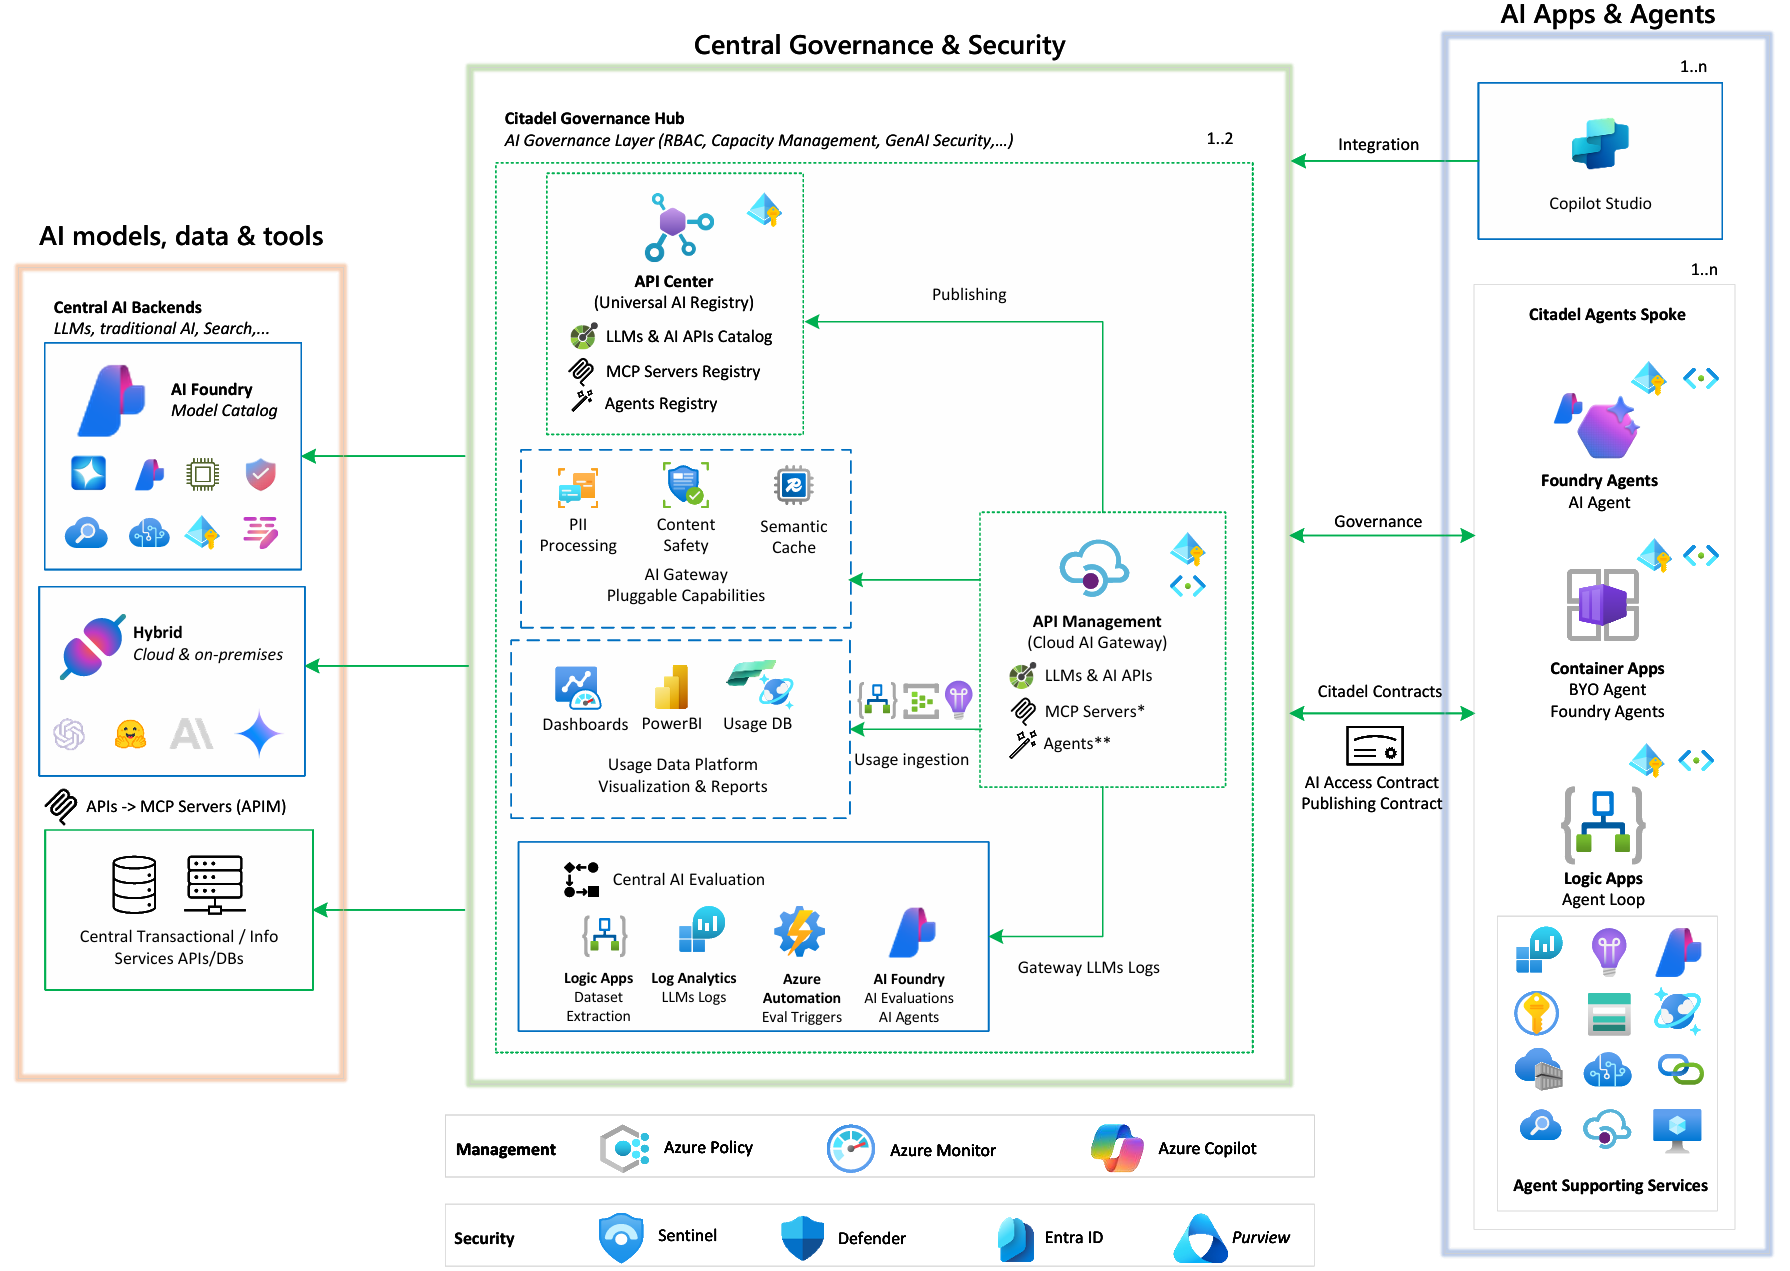
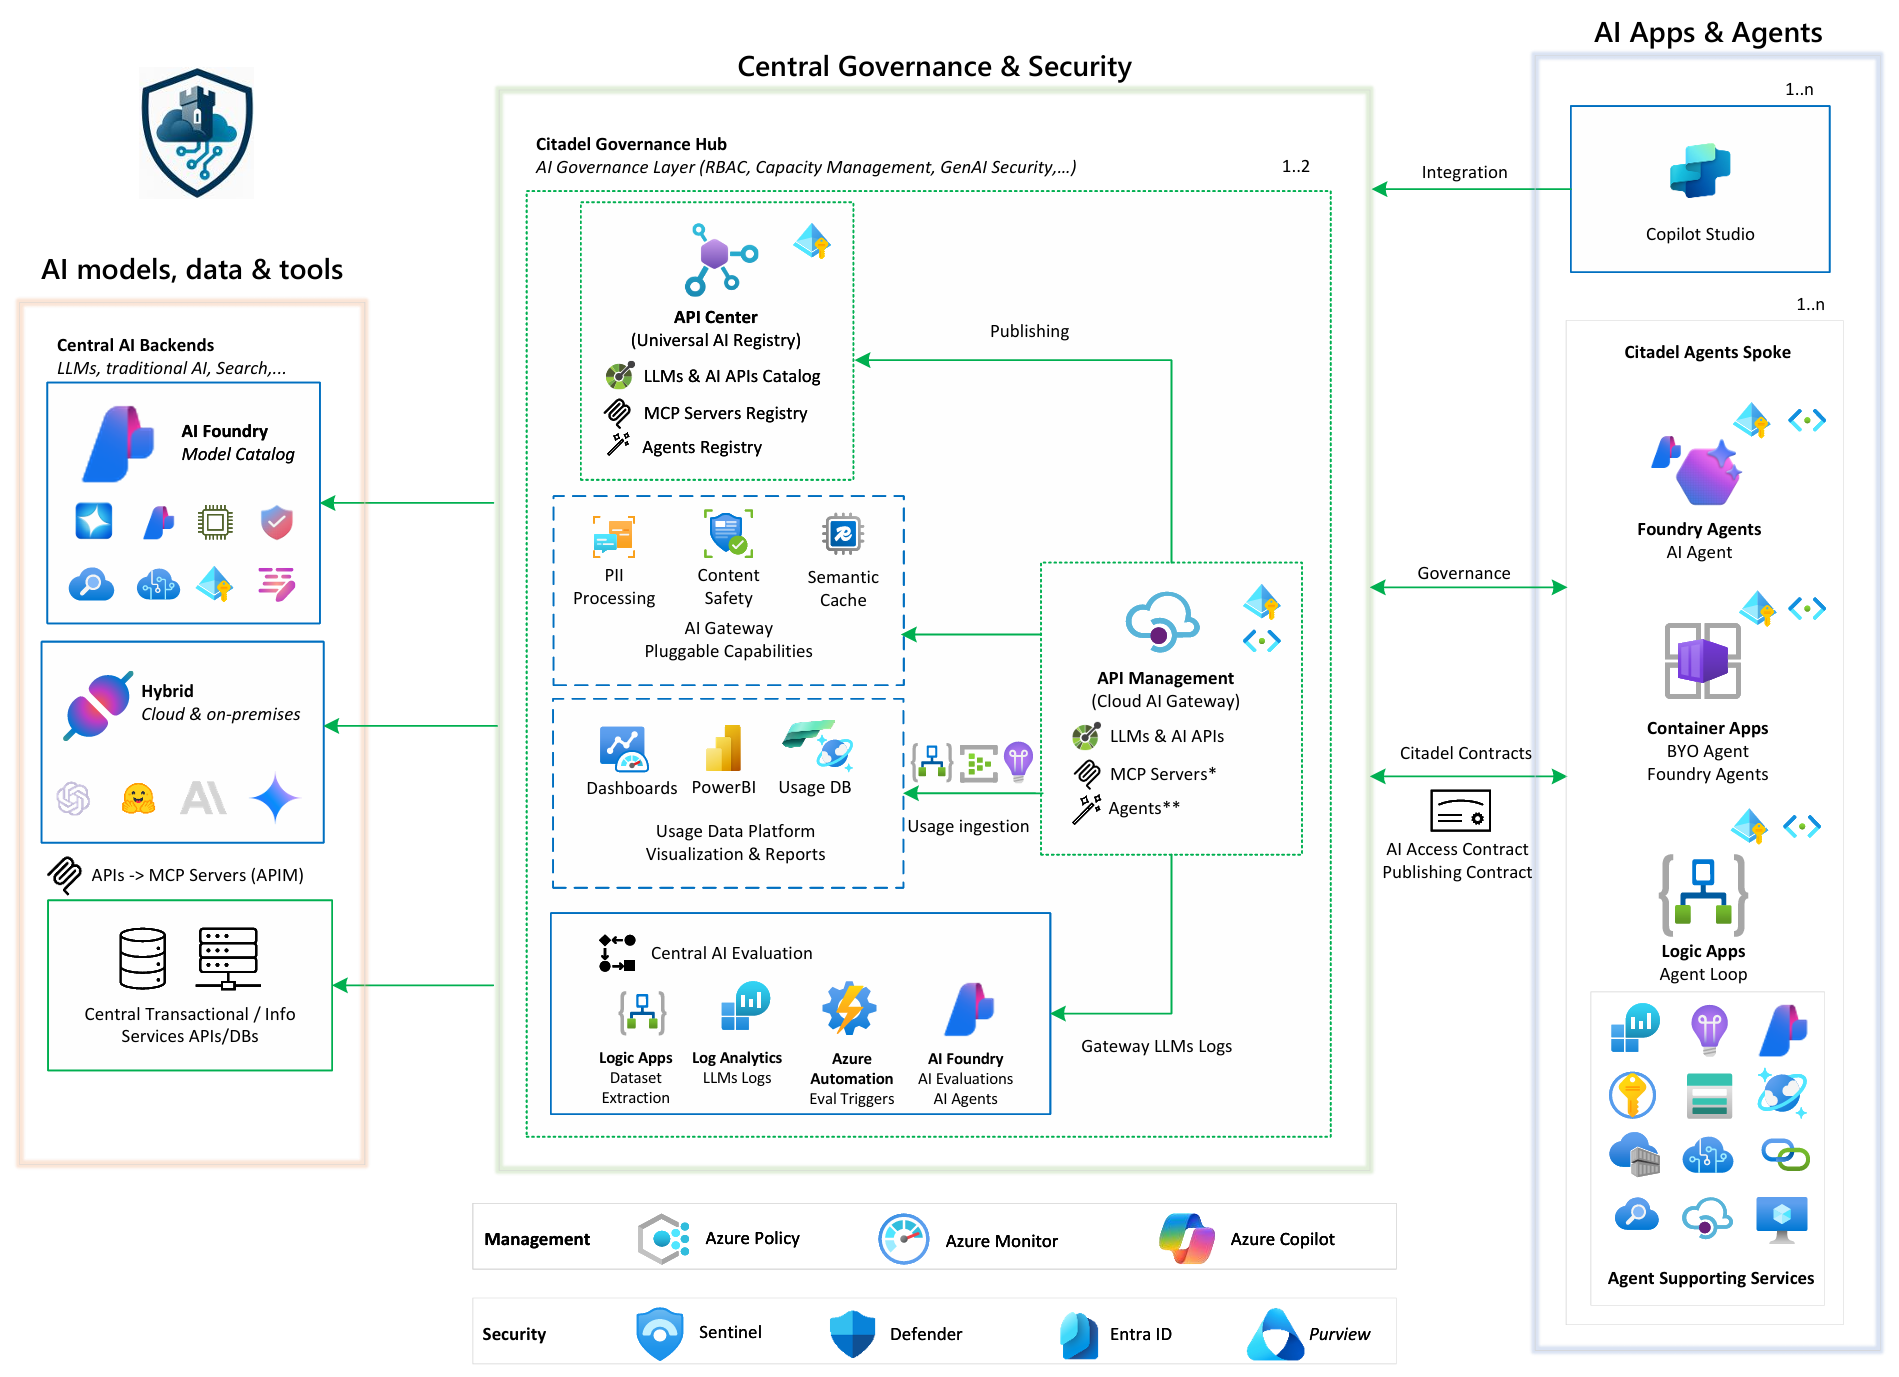
updated citadel guidance

diff --git a/CITADEL-README.md b/CITADEL-README.md
@@ -27,9 +27,9 @@
 
 ## 🚀 What is Citadel Governance Hub?
 
-Citadel Governance Hub (CGH) is an **enterprise-grade AI landing zone** that establishes a centralized, governable, and observable control plane for all AI service consumption across multiple teams, use cases, and environments. 
+Citadel Governance Hub is an **enterprise-grade AI landing zone** that establishes a centralized, governable, and observable control plane for all AI service consumption across multiple teams, use cases, and environments. 
 
-Instead of fragmented, unmonitored, key-based model access, CGH provides a **unified AI gateway pattern** built on Azure API Management (APIM), adding:
+Instead of fragmented, unmonitored, key-based model access, Citadel Governance Hub provides a **unified AI gateway pattern** built on Azure API Management (APIM), adding:
 - ✅ Intelligent routing and load balancing
 - ✅ Security enforcement and compliance guardrails  
 - ✅ Usage analytics and cost attribution
@@ -131,15 +131,17 @@ Citadel implements a **hub-spoke architecture** that integrates seamlessly with 
 
 ![Citadel Architecture](./assets/azure-resources-diagram.svg)
 
-### 🎯 **Citadel Governance Hub (CGH)** - Central Control Plane
+### 🎯 **Citadel Governance Hub (Citadel Governance Hub)** - Central Control Plane
 
-The central governance layer that all AI workloads route through:
+The central governance layer that all AI workloads route through.
+
+#### Core Components:
 
 | Component | Purpose | Enterprise Features |
 |-----------|---------|---------------------|
 | **🚪 API Management** | Unified AI gateway | LLM governance, AI resiliency, AI registry gateway |
 | **📘 API Center** | Universal AI Registry | Discovery of available AI tools, agents and AI services |
-| **🔍 AI Foundry** | Platform Observability | Platform AI Evaluations & Compliance reports |
+| **🔍 Microsoft Foundry** | Platform Observability | Platform AI Evaluations & Compliance reports |
 | **📊 Log Analytics** | Logs, metrics & audits | Scalable enterprise telemetry ingestion and storage |
 | **📊 Application Insights** | Platform monitoring | Performance dashboards, automated alerts |
 | **📨 Event Hub** | Usage data streaming | Real-time usage streaming, custom logging |
@@ -149,7 +151,31 @@ The central governance layer that all AI workloads route through:
 | **⚡ Logic App** | Event processing | Workflow-based processing of usage/logs & AI Eval |
 | **🔐 Managed Identity** | Zero-credential auth | Secure service-to-service communication |
 | **🔗 Virtual Network** | Private connectivity | BYO-VNET support, private endpoints |
-| **🤖 Azure OpenAI** | Multi-region AI (optional) | GPT-models, Realtime API, fully private |
+
+#### Security & Compliance
+
+Supported by subscription wide security services:
+
+| Service | Purpose |Enterprise Features |
+|---------|---------|---------------------|
+|**Defender for Cloud**|Threat protection|AI workload security posture management|
+|**Purview**|Data governance|Sensitivity labeling, data classification|
+|**Entra ID**|Identity & access management|Zero Trust architecture, conditional access|
+
+#### AI Services
+
+Optionally you can deploy one or more generative AI services in the hub:
+
+| Service | Purpose | Enterprise Features |
+|---------|---------|---------------------|
+| **Microsoft Foundry** | LLM model hosting | Private endpoints, dedicated capacity, enterprise SLAs |
+
+#### Optional Components
+
+| Component | Purpose |
+|-----------|---------|
+| **Azure Managed Redis** | Caching layer for high-throughput AI workloads |
+
 
 ### 🌐 **Citadel Agent Spoke (CAS)** - AI Development Environments
 
@@ -165,7 +191,7 @@ Dedicated, secure environments for building and hosting AI agents:
 | **📊 Container Apps** | Containerized AI applications and microservices |
 | **📦 Container Registry** | Container image registry for AI workloads |
 
-> **Note:** CAS deployment is optional and represents the AI development velocity pillar. Multiple spokes can connect to a single CGH.
+> **Note:** CAS deployment is optional and represents the AI development velocity pillar. Multiple spokes can connect to a single Citadel Governance Hub.
 
 ---
 
